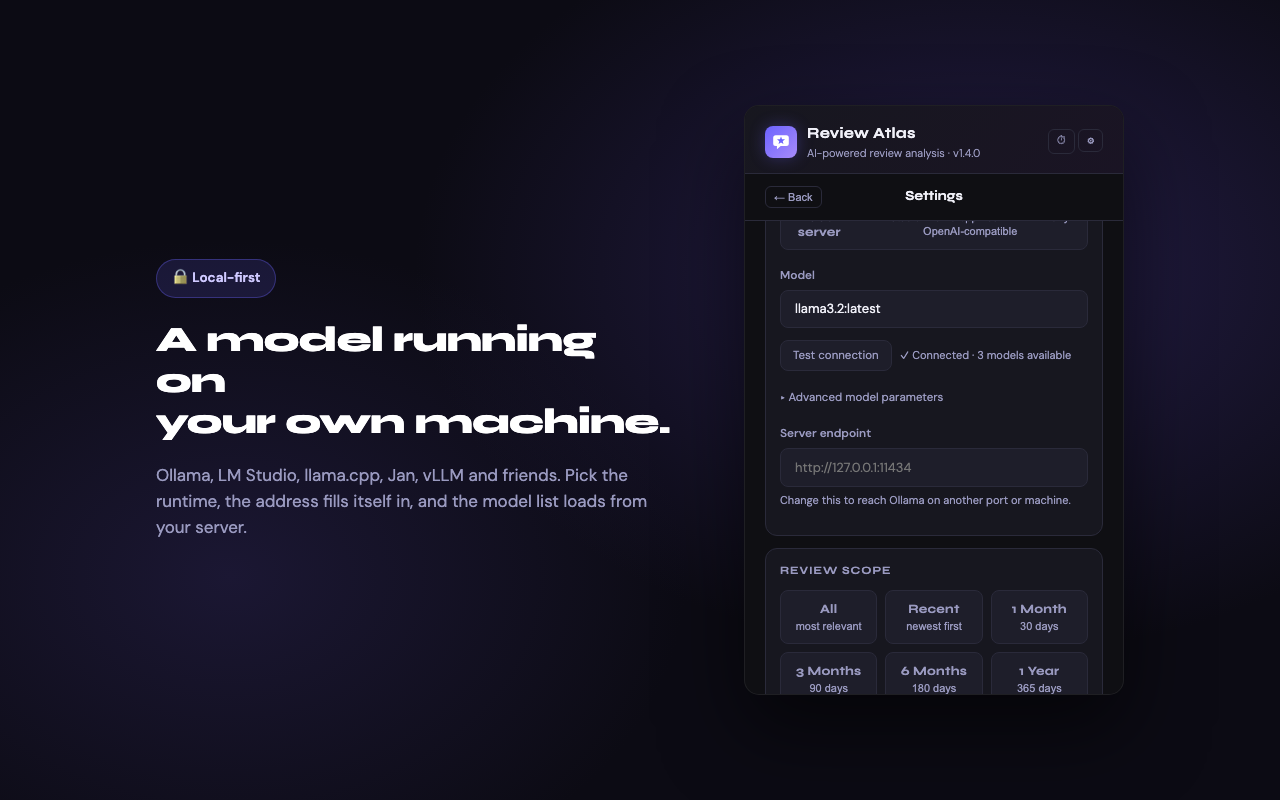
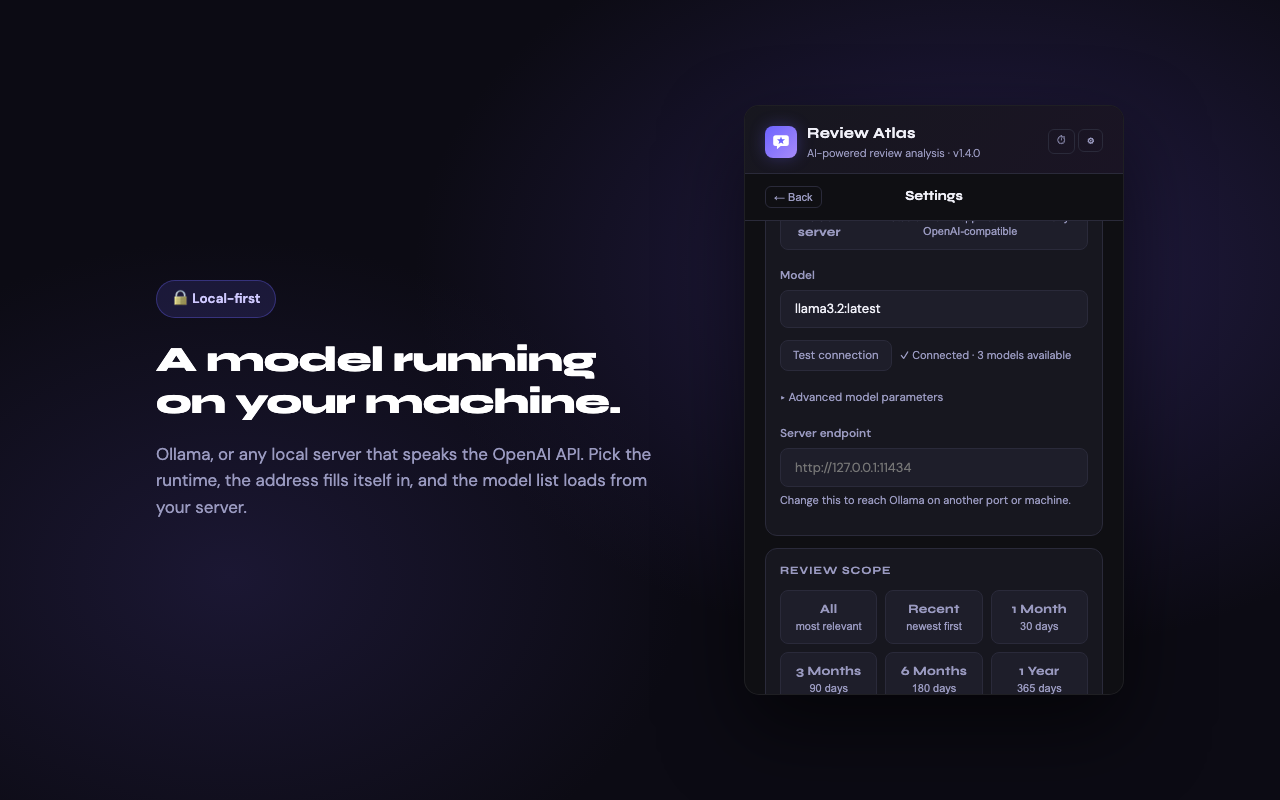
store: drop the runtime-name list rejected as keyword spam
Version 1.4.0 was rejected for keyword spam (ref. Yellow Argon) over the
description line naming seven local AI servers. That line is now one
sentence describing the capability: Ollama, plus any local server that
speaks the OpenAI API. The hosted-provider sentence passed review and is
left as written.

Screenshot 3's caption carried the same list. The rejection did not name
it, but the policy covers screenshots, so it is fixed before a second
review finds it. Its headline also reflows to two lines without leaving a
single word stranded.

STORE-LISTING.md now records the rejection above the description, so the
list does not come back.

Changed region(s): [[0.125, 0.3125, 0.5312, 0.6875]]

diff --git a/tools/make-store-assets.py b/tools/make-store-assets.py
@@ -123,8 +123,8 @@ SHOTS = [
     dict(
         name='screenshot-3-local-model',
         badge='🔒 Local-first',
-        headline='A model running on<br />your own machine.',
-        sub='Ollama, LM Studio, llama.cpp, Jan, vLLM and friends. Pick the runtime, the address fills itself in, and the model list loads from your server.',
+        headline='A model running<br />on your machine.',
+        sub='Ollama, or any local server that speaks the OpenAI API. Pick the runtime, the address fills itself in, and the model list loads from your server.',
         fill="""
   show('settings');
   document.querySelectorAll('#ai-provider-group .scope-btn').forEach((b, i) => b.classList.toggle('active', i === 0));

diff --git a/docs/STORE-LISTING.md b/docs/STORE-LISTING.md
@@ -37,6 +37,12 @@ English
 
 ## Detailed description
 
+> **Do not list runtime or product names.** Version 1.4.0 was rejected for
+> keyword spam (ref. *Yellow Argon*) over a line naming seven local servers.
+> Describe the capability ("any local server that speaks the OpenAI API")
+> instead. The hosted-provider sentence passed review as written; leave it.
+> Screenshot captions fall under the same policy.
+
 ```
 Busy places have hundreds of reviews you will never scroll through. Review Atlas reads them for you and returns what people actually keep saying.
 
@@ -47,12 +53,7 @@ WHAT YOU GET
 • Overall sentiment and the real review count analyzed
 
 BRING YOUR OWN MODEL
-Point it at a model running on your own computer and the review text never leaves your machine:
-• Ollama
-• LM Studio, llama.cpp, Jan, vLLM, KoboldCpp, LocalAI, text-generation-webui
-• Any other OpenAI-compatible server
-
-Pick your runtime and its default address is filled in for you. One click tests the connection and loads the model list from the server itself.
+Point it at an AI model running on your own computer and the review text never leaves your machine. Ollama works out of the box, and so does any local server that speaks the OpenAI API. Pick your runtime and its usual address is filled in for you; one click tests the connection and loads the model list from the server itself.
 
 Prefer a hosted API? OpenAI, Anthropic Claude, Google Gemini, Groq and xAI Grok are supported too.
 
